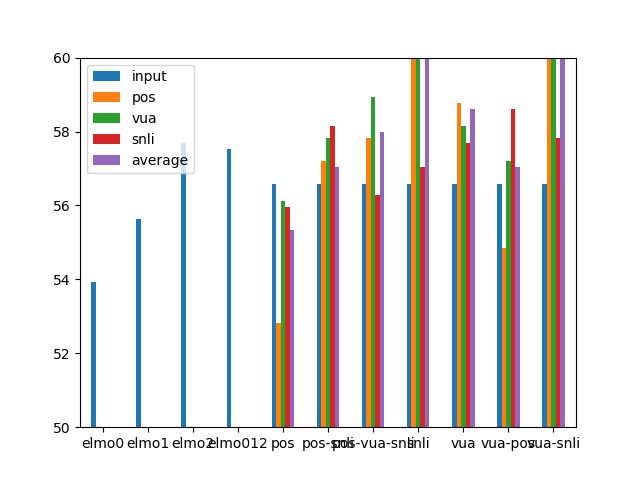
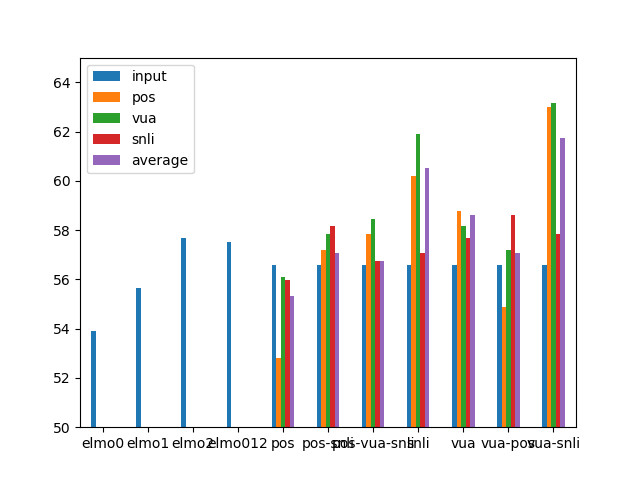
plots

diff --git a/results/WicTableExt.html b/results/WicTableExt.html
@@ -135,32 +135,32 @@
       <td>pos-vua-snli</td>
       <td>pos</td>
       <td>0.52</td>
-      <td>58.3%</td>
+      <td>58.8%</td>
       <td>57.8%</td>
     </tr>
     <tr>
       <th>16</th>
       <td>pos-vua-snli</td>
       <td>vua</td>
-      <td>0.44</td>
-      <td>61.1%</td>
-      <td>58.9%</td>
+      <td>0.36</td>
+      <td>61.3%</td>
+      <td>58.5%</td>
     </tr>
     <tr>
       <th>17</th>
       <td>pos-vua-snli</td>
       <td>snli</td>
       <td>0.64</td>
-      <td>59.7%</td>
-      <td>56.3%</td>
+      <td>59.9%</td>
+      <td>56.7%</td>
     </tr>
     <tr>
       <th>18</th>
       <td>pos-vua-snli</td>
       <td>average</td>
-      <td>0.54</td>
-      <td>59.6%</td>
-      <td>58.0%</td>
+      <td>0.36</td>
+      <td>58.9%</td>
+      <td>56.7%</td>
     </tr>
     <tr>
       <th>19</th>
